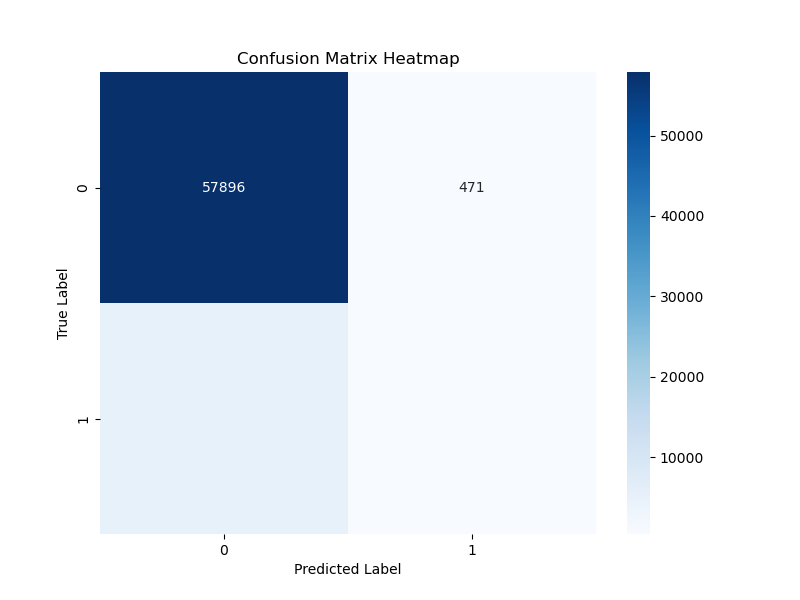
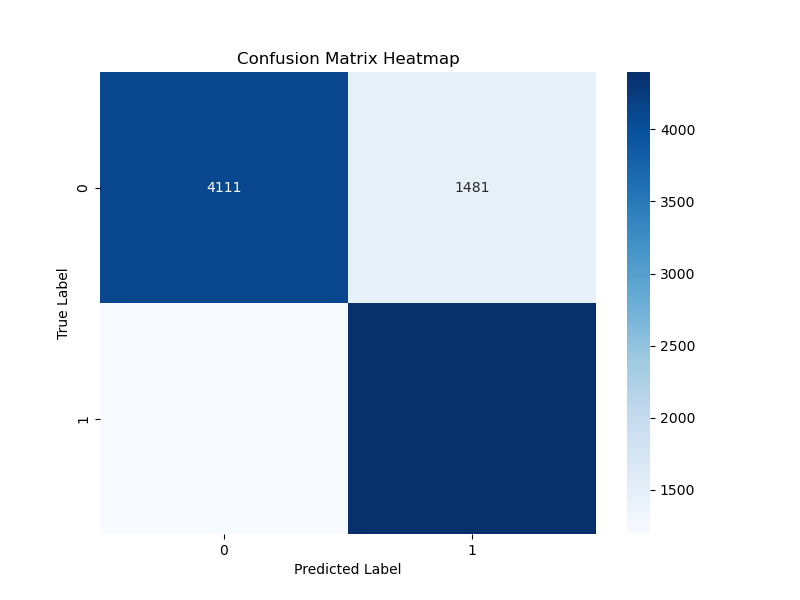
LR: Implementation of subset

diff --git a/LR Silvano/code/code_1.py b/LR Silvano/code/code_1.py
@@ -27,11 +27,20 @@ y = data_encoded['HeartDisease_Yes']
 
 X_train, X_test, y_train, y_test = train_test_split(X, y, test_size=0.2, random_state=42)
 
+pos_patients = list(np.random.choice(X_train[y_train == 1].index, 1000))
+neg_patients = list(np.random.choice(X_train[y_train == 0].index, 1000))
+X_train_sub = X_train.loc[pos_patients+neg_patients]
+y_train_sub = y_train.loc[pos_patients+neg_patients]
+
+pos_patients_test = list(X_test[y_test == 1].index)
+neg_patients_test = list(np.random.choice(X_test[y_test == 0].index, len(pos_patients_test)))
+X_test_sub = X_test.loc[pos_patients_test+neg_patients_test]
+y_test_sub = y_test.loc[pos_patients_test+neg_patients_test]
 
 scaler = StandardScaler()
 numeric_features = X.select_dtypes(include=['float64', 'int']).columns.tolist()
-X_train[numeric_features] = scaler.fit_transform(X_train[numeric_features])
-X_test[numeric_features] = scaler.transform(X_test[numeric_features])
+X_train_sub[numeric_features] = scaler.fit_transform(X_train_sub[numeric_features])
+X_test_sub[numeric_features] = scaler.transform(X_test_sub[numeric_features])
 
 
 param_grid = {
@@ -44,20 +53,20 @@ param_grid = {
 grid_search = GridSearchCV(estimator=LogisticRegression(), param_grid=param_grid, cv=5, scoring='accuracy')
 
 
-grid_search.fit(X_train, y_train)
+grid_search.fit(X_train_sub, y_train_sub)
 
 
 print("Best parameters:", grid_search.best_params_)
 print("Best cross-validation score: {:.2f}".format(grid_search.best_score_))
 
 
-y_pred = grid_search.predict(X_test)
-y_pred_prob = grid_search.predict_proba(X_test)[:, 1]
+y_pred = grid_search.predict(X_test_sub)
+y_pred_prob = grid_search.predict_proba(X_test_sub)[:, 1]
 
 
-accuracy = accuracy_score(y_test, y_pred)
-conf_matrix = confusion_matrix(y_test, y_pred)
-report = classification_report(y_test, y_pred)
+accuracy = accuracy_score(y_test_sub, y_pred)
+conf_matrix = confusion_matrix(y_test_sub, y_pred)
+report = classification_report(y_test_sub, y_pred)
 print("Accuracy:", accuracy)
 print("Confusion Matrix:\n", conf_matrix)
 print("Classification Report:\n", report)
@@ -66,7 +75,7 @@ print("Classification Report:\n", report)
 
 
 if 'l1' in grid_search.best_params_['penalty']:  
-    coefficients = pd.DataFrame(grid_search.best_estimator_.coef_.flatten(), index=X_train.columns, columns=['Coefficients'])
+    coefficients = pd.DataFrame(grid_search.best_estimator_.coef_.flatten(), index=X_train_sub.columns, columns=['Coefficients'])
     coefficients = coefficients.sort_values(by='Coefficients', ascending=False)
     plt.figure(figsize=(20, 10))
     sns.barplot(x=coefficients['Coefficients'], y=coefficients.index)
@@ -83,8 +92,8 @@ plt.savefig("../output/ConfusionMatrix.png")
 
 
 
-fpr, tpr, thresholds = roc_curve(y_test, y_pred_prob)
-roc_auc = roc_auc_score(y_test, y_pred_prob)
+fpr, tpr, thresholds = roc_curve(y_test_sub, y_pred_prob)
+roc_auc = roc_auc_score(y_test_sub, y_pred_prob)
 plt.figure(figsize=(8, 6))
 plt.plot(fpr, tpr, color='Blue', lw=2, label='ROC curve (area = %0.2f)' % roc_auc)
 plt.plot([0, 1], [0, 1], color='red', lw=2, linestyle='--')
